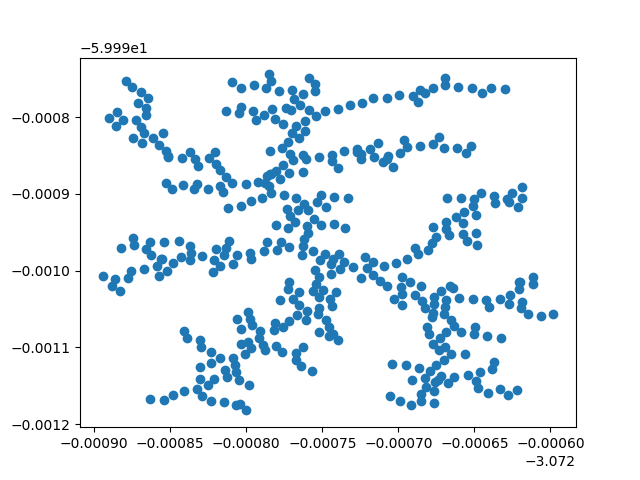
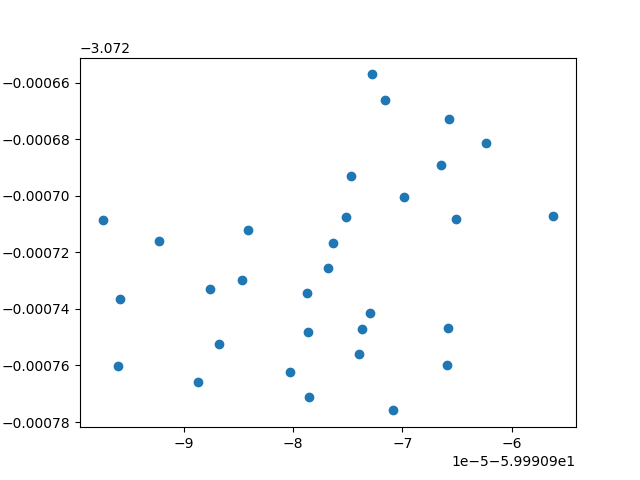
Square Test added, RRT modifications and some new images

diff --git a/rrt.py b/rrt.py
@@ -8,13 +8,10 @@ from geopy.distance import great_circle
 
 
 class RRT:
-    def __init__(self):
-        # self.start = [50, 50, 0]
-        self.start = [-3.072756, -59.990974, 0]
-        # self.arrival = [88, 42]
-        self.arrival = [-3.072650, -59.990975]
-        # self.map_dimensions = [[0, 0], [100, 100]]
-        self.map_dimensions = [[-3.072913, -59.991215], [-3.072578, -59.990712]]
+    def __init__(self, start, arrival):
+        self.start = start
+        self.arrival = arrival
+        self.map_dimensions = [[-3.072787, -59.991006], [-3.072635, -59.990953]]
         self.states = []
         self.states.append(self.start)
         self.generation_start_time = datetime.datetime.now()
@@ -104,8 +101,8 @@ class RRT:
         self.generation_finish_time = datetime.datetime.now()
         print(f"Generation took: {self.generation_finish_time - self.generation_start_time}")
         print(f"Nodes:{len(self.states)}")
-        x_points = [x[0] for x in self.states]
-        y_points = [y[1] for y in self.states]
+        x_points = [x[1] for x in self.states]
+        y_points = [y[0] for y in self.states]
         plt.plot(x_points, y_points, 'o', scalex=100, scaley=100)
         plt.savefig('RRT_generation.png')
 
@@ -120,12 +117,16 @@ class RRT:
             point = self.states[point_parent]
             point_parent = point[2]
             path_points.append([point[0], point[1]])
+        path_points.reverse()
         print(f"Path has: {len(path_points)} nodes")
-        x_points = [x[0] for x in path_points]
-        y_points = [y[1] for y in path_points]
-        plt.plot(x_points, y_points, 'o', scalex=100, scaley=100)
+        print(f"Path points: {path_points}")
+        x_points = [x[1] for x in path_points]
+        y_points = [y[0] for y in path_points]
+        plt.plot(x_points, y_points, 'bo', linestyle="--", scalex=100, scaley=100)
+        plt.plot(x_points[0], y_points[0], 'go')
+        plt.plot(x_points[-1], y_points[-1], 'ro')
         plt.savefig('RRT_path.png')
 
 
-rrt_graph = RRT()
+rrt_graph = RRT(start=[-3.072756, -59.990974, 0], arrival=[-3.072650, -59.990975])
 rrt_graph.get_path()

diff --git a/square_test.py b/square_test.py
@@ -116,9 +116,10 @@ def goto_position_target_local_ned(north, east, down):
 
 
 """=====================================TEST CODE================================================================"""
+
 print("SQUARE path using SET_POSITION_TARGET_LOCAL_NED and position parameters")
 logging.info("SQUARE path using SET_POSITION_TARGET_LOCAL_NED and position parameters")
-ALTITUDE_CONSTANT = 2
+ALTITUDE_CONSTANT = int(2)
 # Arm and take off to altitude of 2 meters
 arm_and_takeoff(ALTITUDE_CONSTANT)
 
@@ -172,4 +173,3 @@ logging.info("TEST FINISHED PREPARING TO LAND !")
 print("Setting LAND mode...")
 logging.info("Setting LAND mode...")
 vehicle.mode = VehicleMode("LAND")
-
